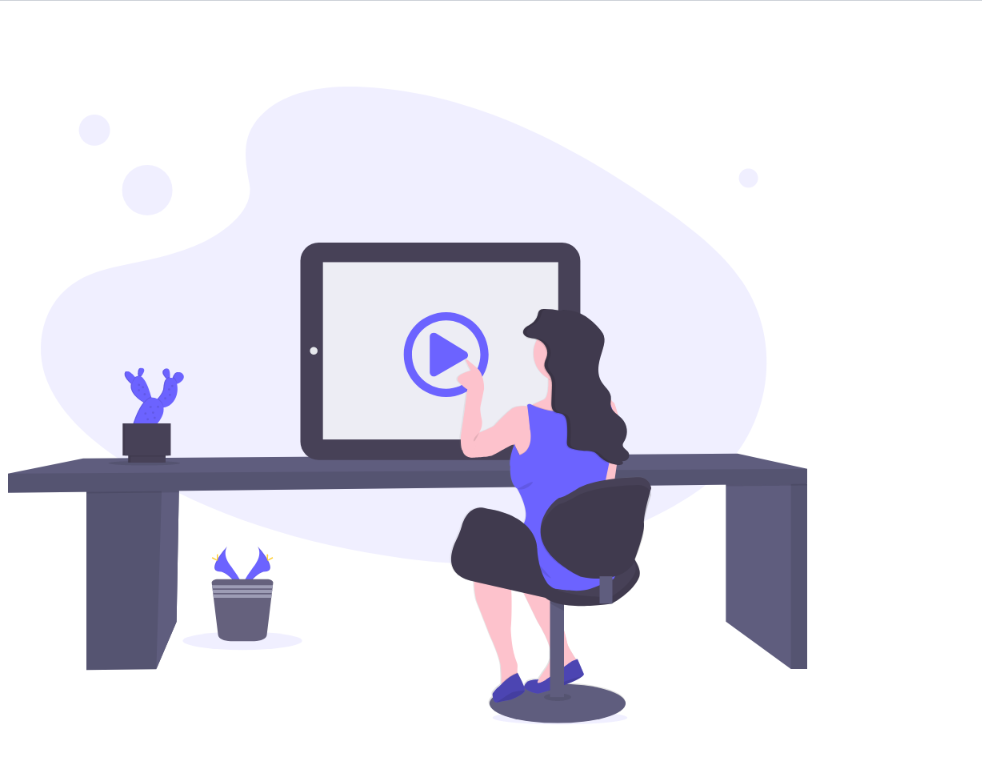
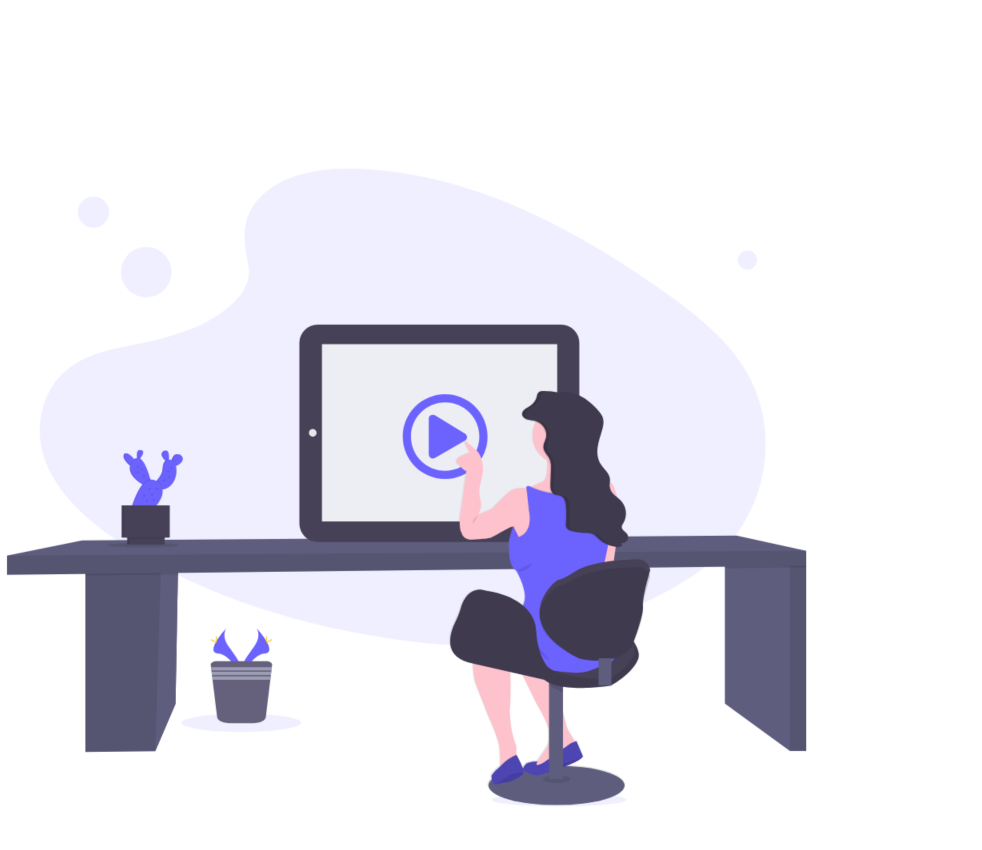
everything but no picture

diff --git a/index.html b/index.html
@@ -10,22 +10,27 @@
 <style></style>
 <body>
     <div class="container">
+        <div class="smaller_container">
         <h1 id="sign"class="item">Sign Up</h1>
-        <div id="item1" class="item item_1"></div>
+        <div id="item1"class="item item_1"></div>
         <div class="item item_2"></div>
         <div class="item item_3">🔒</div>
         <form>   
-               <a id="bottom">Sign Up</a>
+               <a href="#" id="bottom">Sign Up</a>
         </form>
-        <h5>Or sign with social platforms</h5>
-        
-       
+        <h5>Or sign with social platforms</h5>       
+        <div class="bottom_icons">
+            <img id="media" src="media.png" alt="">
+         </div>      
+         <img id="pic" src="pic.png" alt="">  
+    </div>
+
      
 
 
    </div>
 
-   <img id="pic" src="pic.png" alt="">
+
 
 
 

diff --git a/css/main.css b/css/main.css
@@ -3,6 +3,12 @@
   flex-direction: column;
   margin-top: 40px;
   margin-left: 70px;
+  z-index:0;
+}
+
+
+.smaller_container {
+    z-index: 0;
 }
 
 
@@ -52,7 +58,9 @@ a {
     padding-bottom: 10px;
     color: white;
     font-weight: 500; 
-    font-family: arial; 
+    font-family: arial;
+    text-decoration: none;
+    
 }
 
 h5 {
@@ -62,6 +70,13 @@ h5 {
     font-family: arial;
 }
 
-#pic {
+
+#media {
+    width: 630px;
     
+}
+
+#pic {
+    float: right;
+    z-index: 1;
 }
